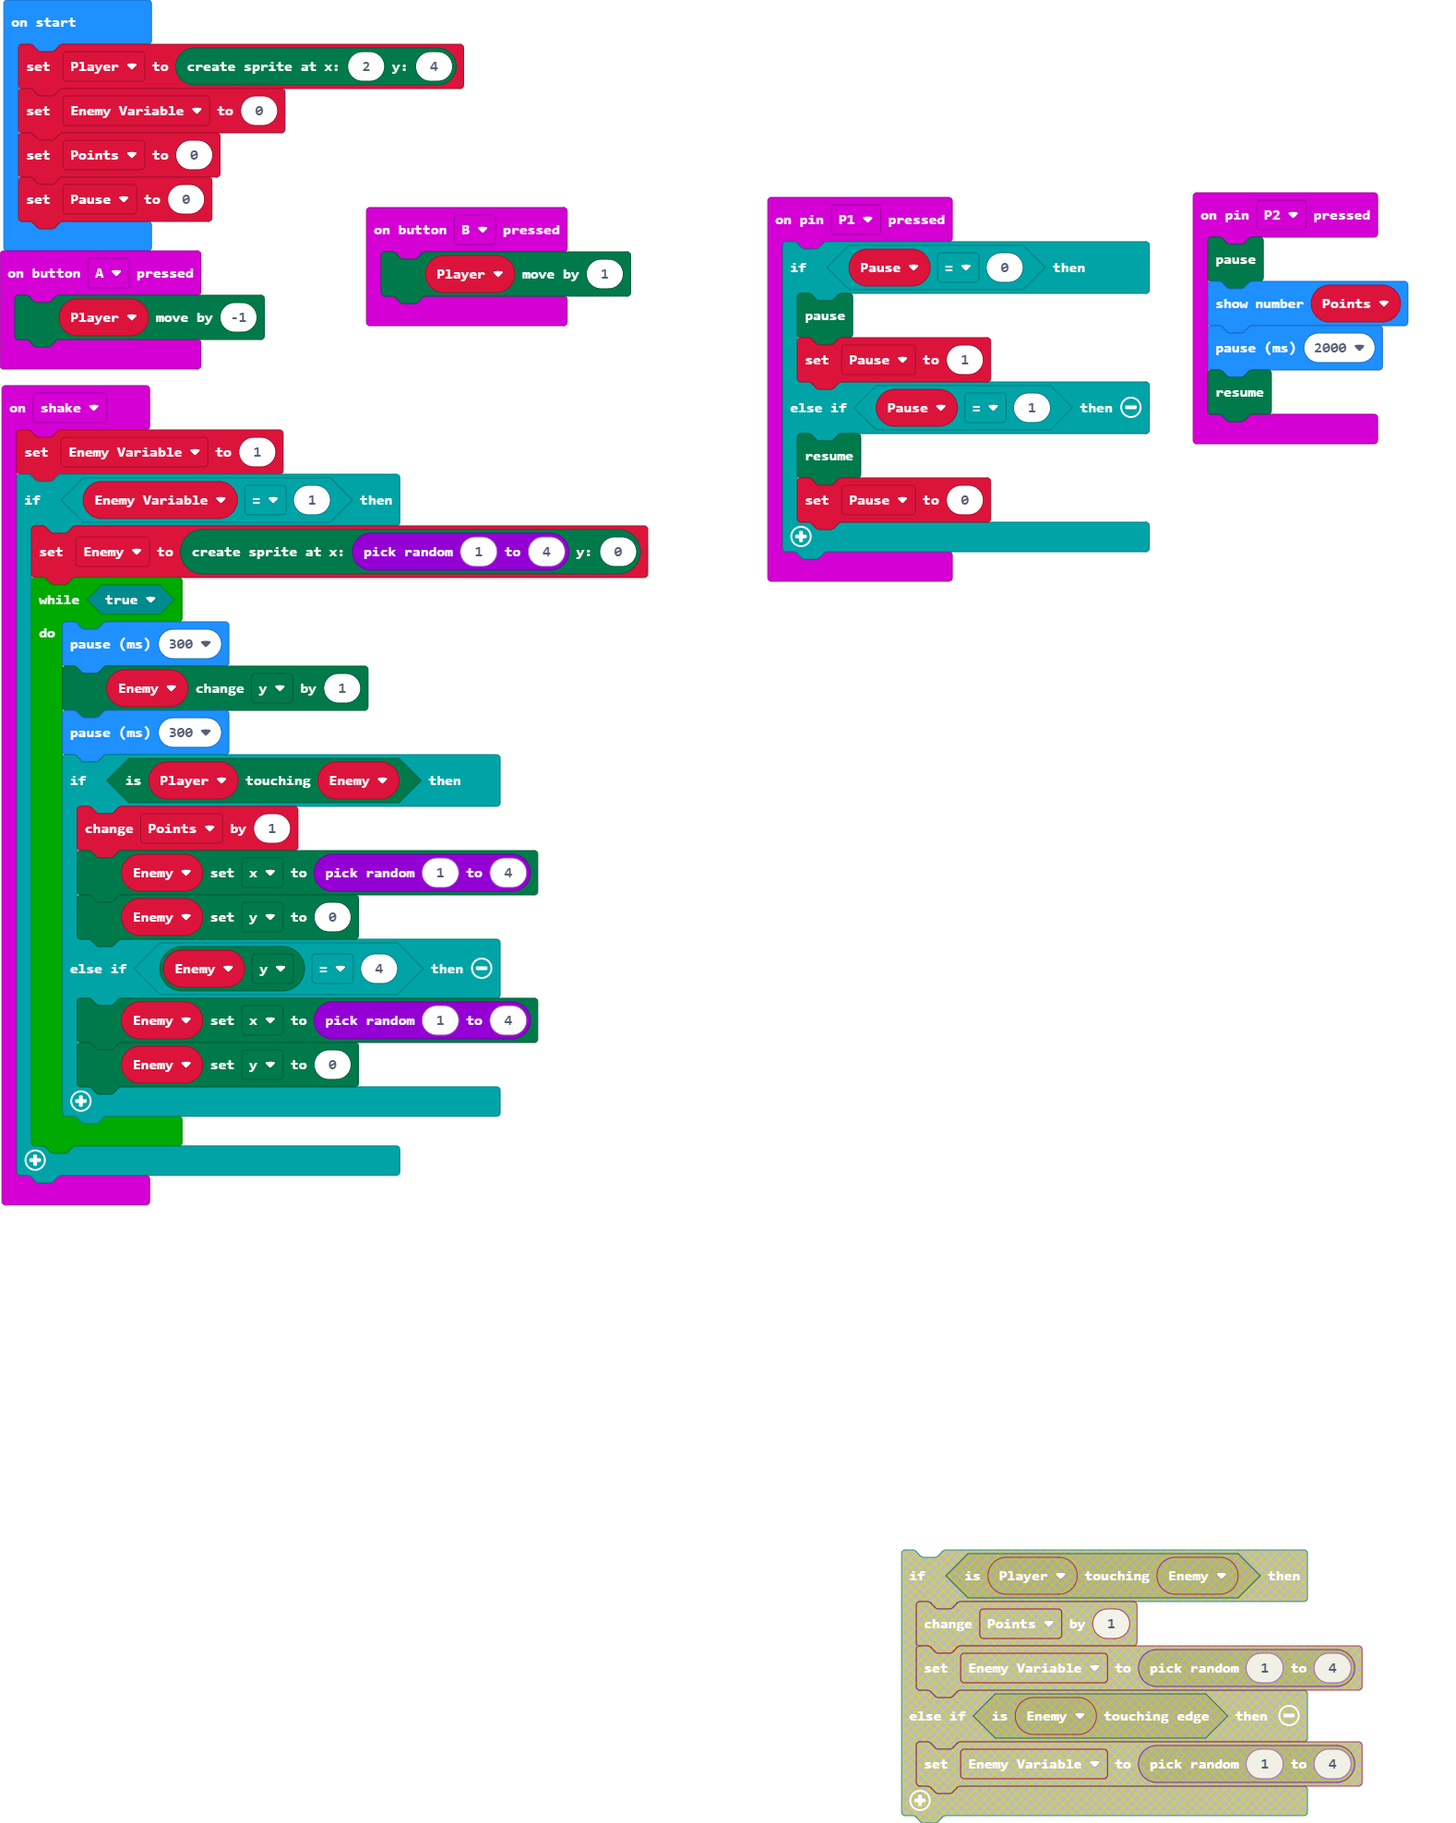
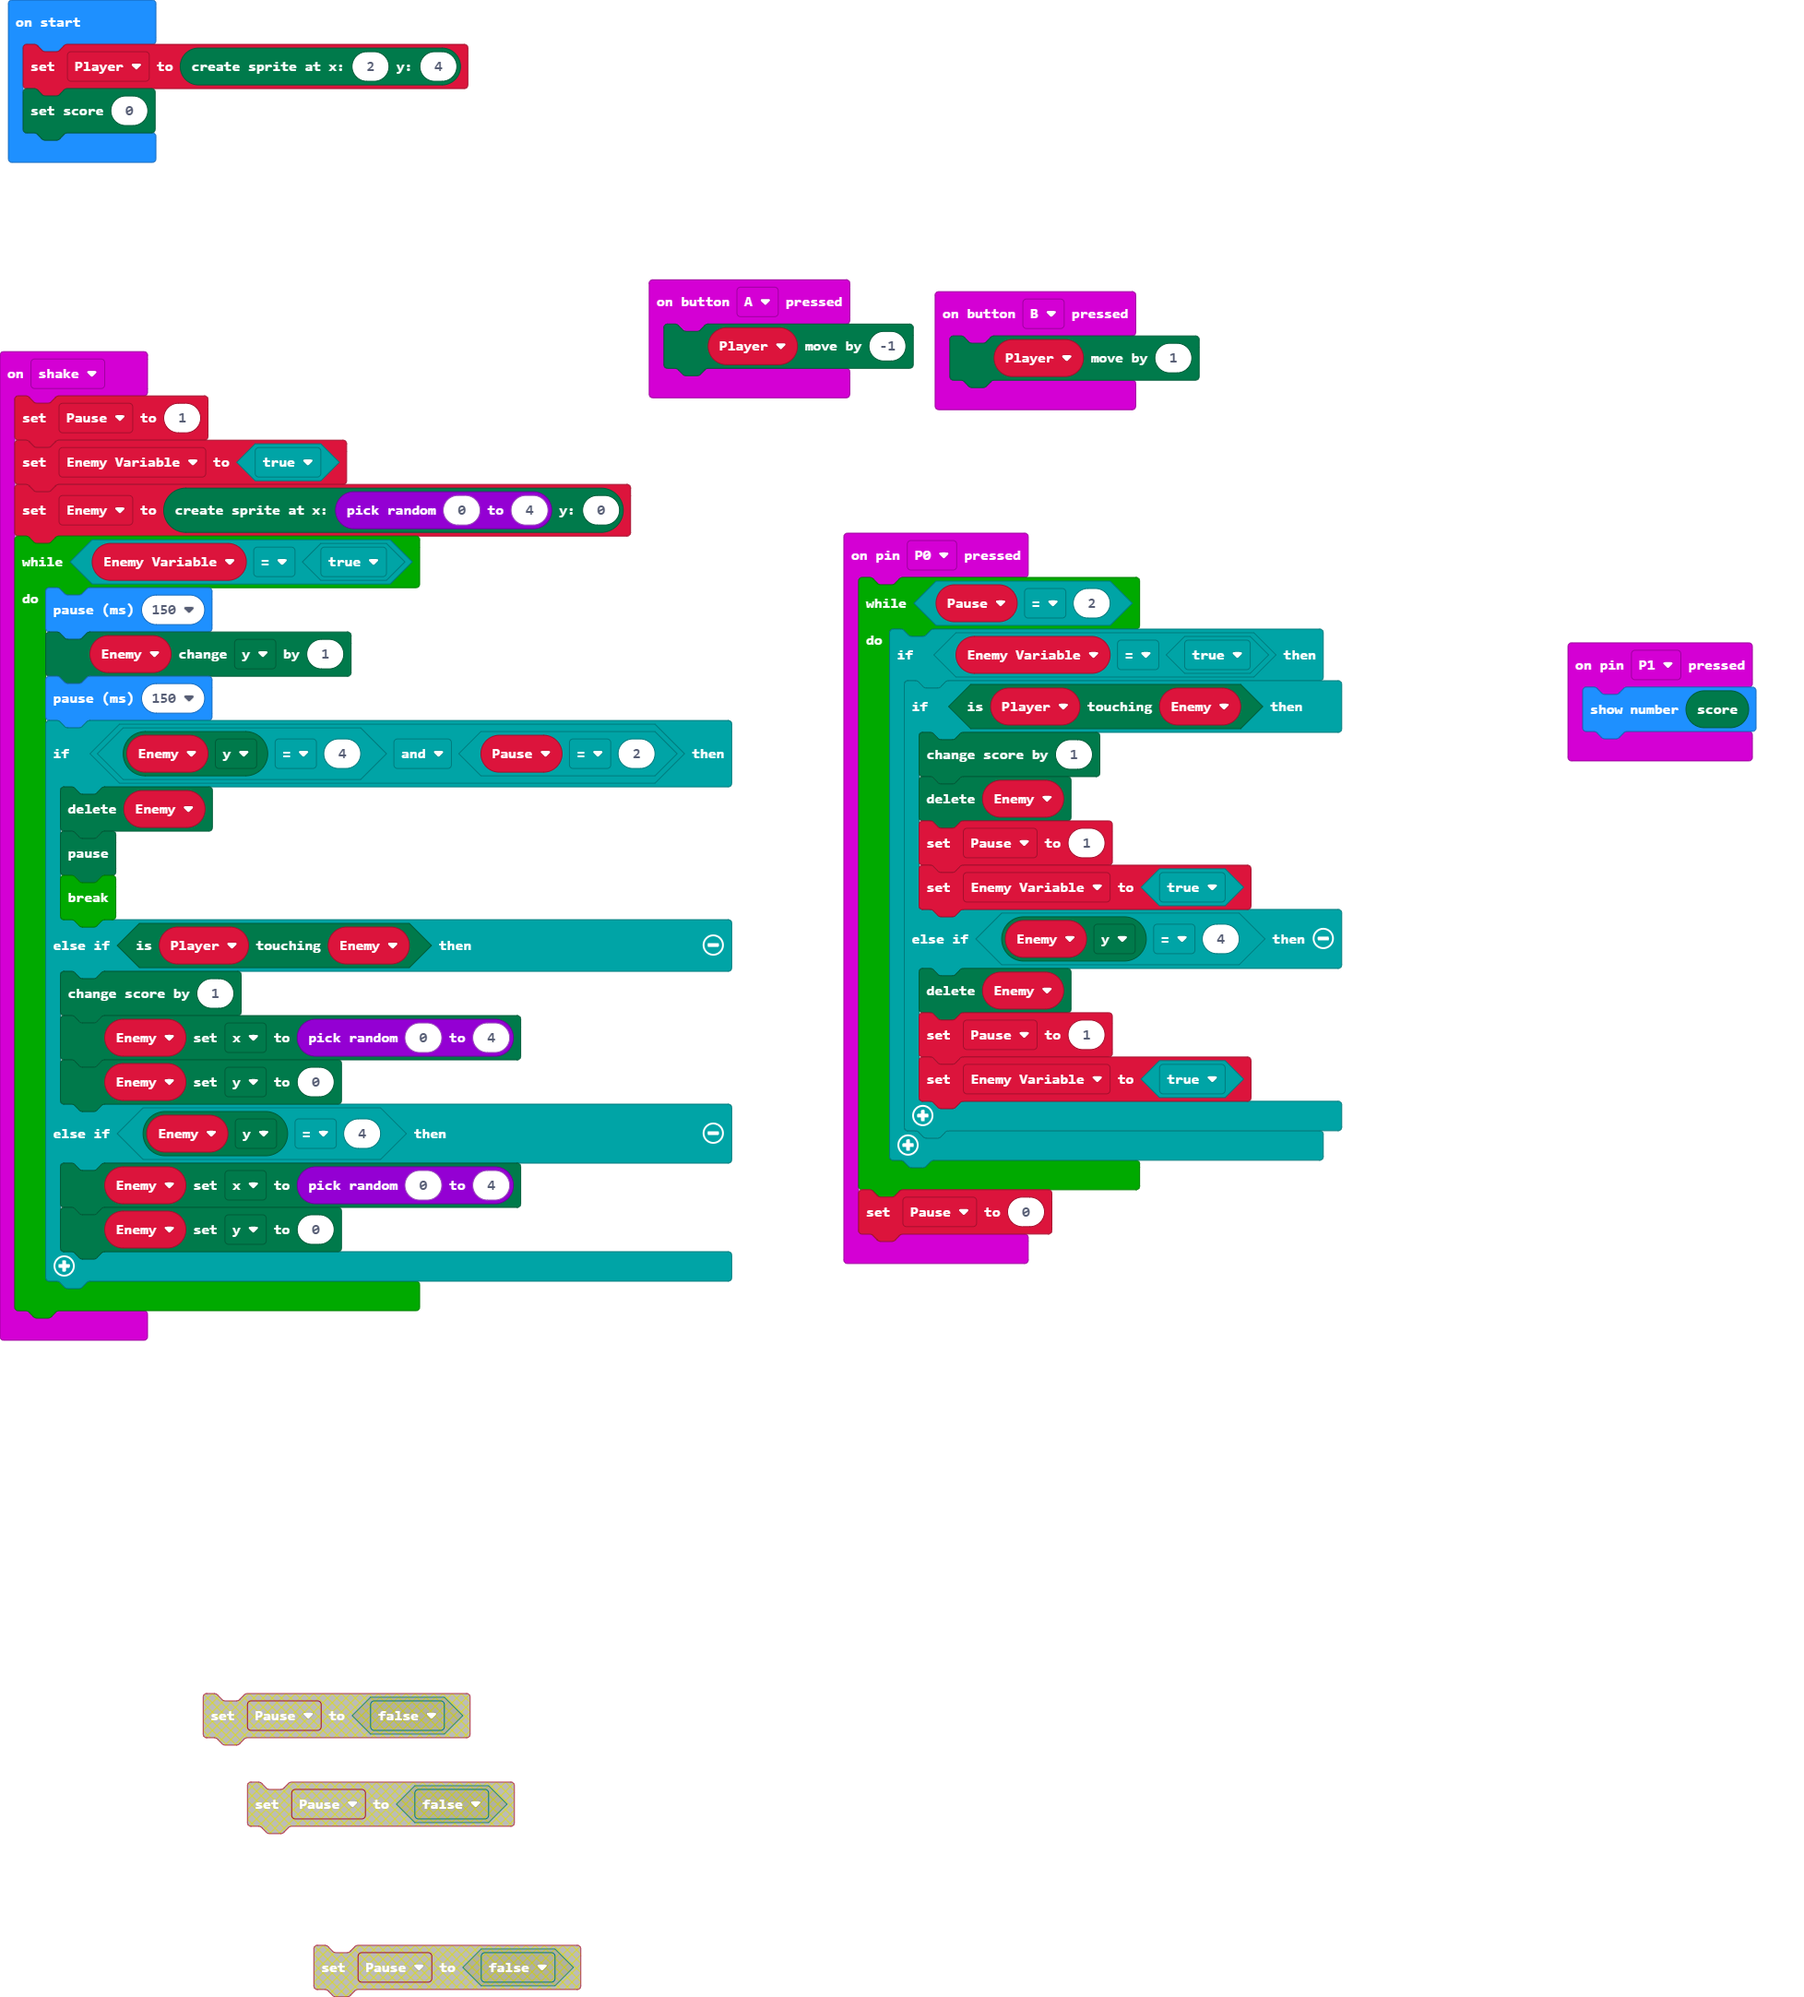
Update main.blocks, main.ts

diff --git a/main.ts b/main.ts
@@ -1,49 +1,54 @@
+input.onPinPressed(TouchPin.P0, function () {
+    while (Pause == 2) {
+        if (Enemy_Variable == true) {
+            if (Player.isTouching(Enemy)) {
+                game.addScore(1)
+                Enemy.delete()
+                Pause = 1
+                Enemy_Variable = true
+            } else if (Enemy.get(LedSpriteProperty.Y) == 4) {
+                Enemy.delete()
+                Pause = 1
+                Enemy_Variable = true
+            }
+        }
+    }
+    Pause = 0
+})
 input.onButtonPressed(Button.A, function () {
     Player.move(-1)
-})
-input.onPinPressed(TouchPin.P2, function () {
-    game.pause()
-    basic.showNumber(Points)
-    basic.pause(2000)
-    game.resume()
 })
 input.onButtonPressed(Button.B, function () {
     Player.move(1)
 })
 input.onPinPressed(TouchPin.P1, function () {
-    if (Pause == 0) {
-        game.pause()
-        Pause = 1
-    } else if (Pause == 1) {
-        game.resume()
-        Pause = 0
-    }
+    basic.showNumber(game.score())
 })
 input.onGesture(Gesture.Shake, function () {
-    Enemy_Variable = 1
-    if (Enemy_Variable == 1) {
-        Enemy = game.createSprite(randint(1, 4), 0)
-        while (true) {
-            basic.pause(300)
-            Enemy.change(LedSpriteProperty.Y, 1)
-            basic.pause(300)
-            if (Player.isTouching(Enemy)) {
-                Points += 1
-                Enemy.set(LedSpriteProperty.X, randint(1, 4))
-                Enemy.set(LedSpriteProperty.Y, 0)
-            } else if (Enemy.get(LedSpriteProperty.Y) == 4) {
-                Enemy.set(LedSpriteProperty.X, randint(1, 4))
-                Enemy.set(LedSpriteProperty.Y, 0)
-            }
+    Pause = 1
+    Enemy_Variable = true
+    Enemy = game.createSprite(randint(0, 4), 0)
+    while (Enemy_Variable == true) {
+        basic.pause(150)
+        Enemy.change(LedSpriteProperty.Y, 1)
+        basic.pause(150)
+        if (Enemy.get(LedSpriteProperty.Y) == 4 && Pause == 2) {
+            Enemy.delete()
+            game.pause()
+            break;
+        } else if (Player.isTouching(Enemy)) {
+            game.addScore(1)
+            Enemy.set(LedSpriteProperty.X, randint(0, 4))
+            Enemy.set(LedSpriteProperty.Y, 0)
+        } else if (Enemy.get(LedSpriteProperty.Y) == 4) {
+            Enemy.set(LedSpriteProperty.X, randint(0, 4))
+            Enemy.set(LedSpriteProperty.Y, 0)
         }
     }
 })
 let Enemy: game.LedSprite = null
+let Enemy_Variable = false
 let Pause = 0
-let Points = 0
-let Enemy_Variable = 0
 let Player: game.LedSprite = null
 Player = game.createSprite(2, 4)
-Enemy_Variable = 0
-Points = 0
-Pause = 0
+game.setScore(0)
